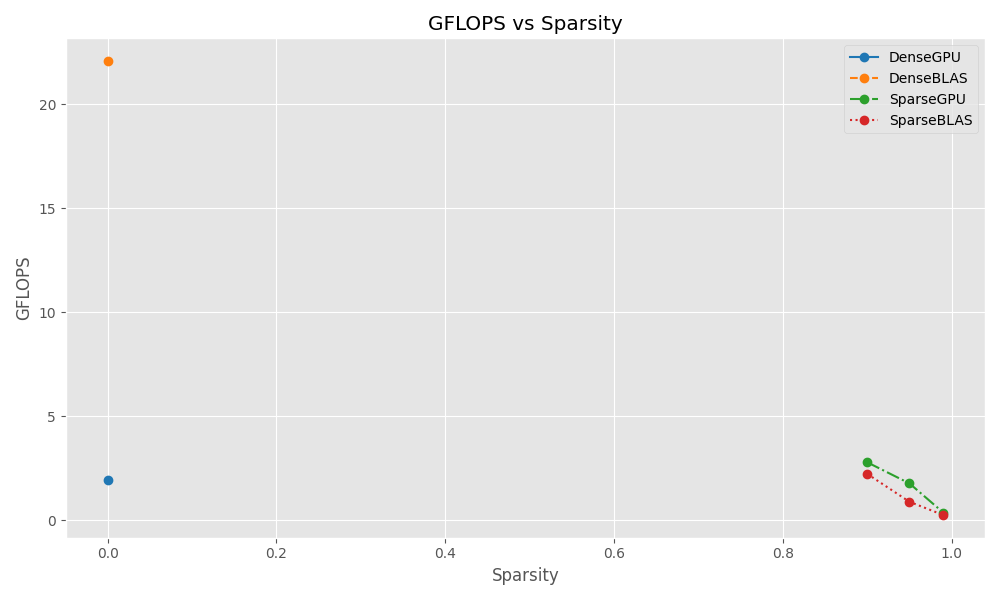
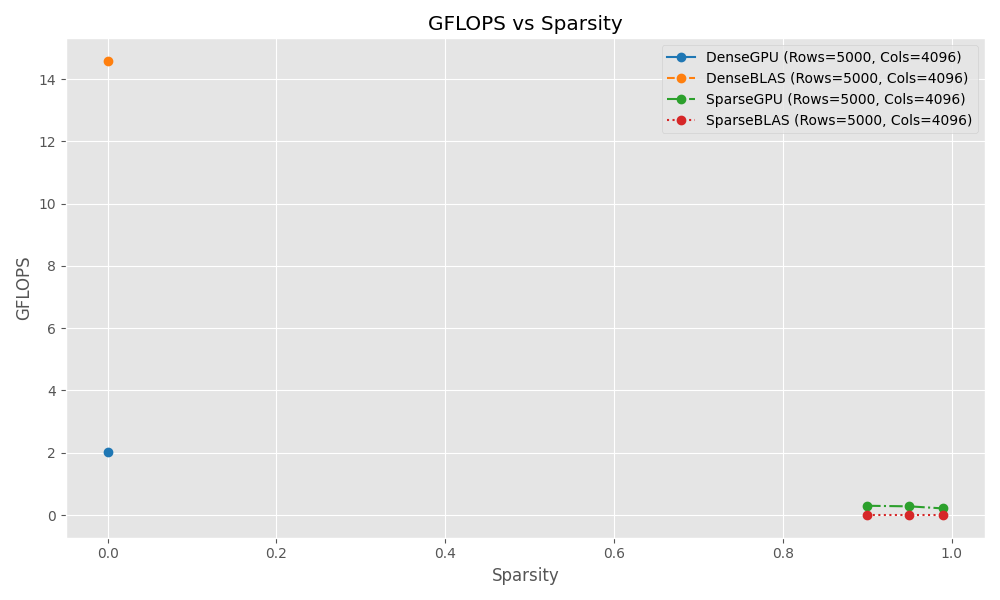
fixed graphs

diff --git a/draw.py b/draw.py
@@ -1,10 +1,11 @@
 import pandas as pd
 import matplotlib.pyplot as plt
+import os
 
 # Load data
 df = pd.read_csv("./benchmark_log.csv")
 
-# Normalize method names for consistency
+# Normalize method names
 df['Type'] = df['Type'].replace({
     'DenseGPU': 'DenseGPU',
     'DenseCPU': 'DenseBLAS',
@@ -12,7 +13,7 @@ df['Type'] = df['Type'].replace({
     'SparseCPU': 'SparseBLAS'
 })
 
-# Set up plot style
+# Plot styles
 plt.style.use("ggplot")
 colors = {
     'DenseGPU': 'tab:blue',
@@ -27,16 +28,51 @@ line_styles = {
     'SparseBLAS': ':'
 }
 
-def plot_metric_vs_param(metric, param, ylabel, title):
+# Output directory
+os.makedirs("images", exist_ok=True)
+
+# Plot function with hardcoded dense sparsity = 0.0, selectable sparse sparsity
+def plot_with_fixed_dense_and_selectable_sparse(metric, param, fixed_values, sparse_sparsity, ylabel, title):
     plt.figure(figsize=(10, 6))
-    for method in df['Type'].unique():
-        sub_df = df[df['Type'] == method]
+
+    # ---- Dense methods ----
+    dense_fixed_values = fixed_values.copy()
+    dense_fixed_values["Sparsity"] = 0.0
+    dense_df = df.copy()
+    for k, v in dense_fixed_values.items():
+        if k != param:
+            dense_df = dense_df[dense_df[k] == v]
+    
+    for method in ["DenseGPU", "DenseBLAS"]:
+        sub_df = dense_df[dense_df["Type"] == method]
         means = sub_df.groupby(param)[metric].mean()
-        plt.plot(means.index, means.values,
-                 label=method,
-                 linestyle=line_styles[method],
-                 color=colors[method],
-                 marker='o')
+        if not means.empty:
+            fixed_info = ', '.join([f"{k}={v}" for k, v in dense_fixed_values.items() if k != param])
+            plt.plot(means.index, means.values,
+                     label=f"{method} ({fixed_info})",
+                     linestyle=line_styles[method],
+                     color=colors[method],
+                     marker='o')
+
+    # ---- Sparse methods ----
+    sparse_fixed_values = fixed_values.copy()
+    sparse_fixed_values["Sparsity"] = sparse_sparsity
+    sparse_df = df.copy()
+    for k, v in sparse_fixed_values.items():
+        if k != param:
+            sparse_df = sparse_df[sparse_df[k] == v]
+    
+    for method in ["SparseGPU", "SparseBLAS"]:
+        sub_df = sparse_df[sparse_df["Type"] == method]
+        means = sub_df.groupby(param)[metric].mean()
+        if not means.empty:
+            fixed_info = ', '.join([f"{k}={v}" for k, v in sparse_fixed_values.items() if k != param])
+            plt.plot(means.index, means.values,
+                     label=f"{method} ({fixed_info})",
+                     linestyle=line_styles[method],
+                     color=colors[method],
+                     marker='o')
+
     plt.xlabel(param)
     plt.ylabel(ylabel)
     plt.title(title)
@@ -44,21 +80,21 @@ def plot_metric_vs_param(metric, param, ylabel, title):
     plt.tight_layout()
     plt.grid(True)
     plt.savefig(f"images/{title}.png")
+    plt.close()
 
-# 1. Latency vs Rows
-plot_metric_vs_param("Avg Inference (50 times) Time (ms)", "Rows", "Time (ms)", "Latency vs Rows")
+# === CONFIGURATION ===
+# Fixed values (except x-axis param and sparsity for sparse)
+fixed_values = {
+    "Rows": 5000,
+    "Cols": 4096
+}
+# You choose the sparsity to use for Sparse methods
+selected_sparse_sparsity = 0.9
 
-# 2. GFLOPS vs Rows
-plot_metric_vs_param("GFLOPS", "Rows", "GFLOPS", "GFLOPS vs Rows")
-
-# 3. Latency vs Cols
-plot_metric_vs_param("Avg Inference (50 times) Time (ms)", "Cols", "Time (ms)", "Latency vs Cols")
-
-# 4. GFLOPS vs Cols
-plot_metric_vs_param("GFLOPS", "Cols", "GFLOPS", "GFLOPS vs Cols")
-
-# 5. Latency vs Sparsity
-plot_metric_vs_param("Avg Inference (50 times) Time (ms)", "Sparsity", "Time (ms)", "Latency vs Sparsity")
-
-# 6. GFLOPS vs Sparsity
-plot_metric_vs_param("GFLOPS", "Sparsity", "GFLOPS", "GFLOPS vs Sparsity")
+# === PLOTS ===
+plot_with_fixed_dense_and_selectable_sparse("Avg Inference (50 times) Time (ms)", "Rows", fixed_values, selected_sparse_sparsity, "Time (ms)", "Latency vs Rows")
+plot_with_fixed_dense_and_selectable_sparse("GFLOPS", "Rows", fixed_values, selected_sparse_sparsity, "GFLOPS", "GFLOPS vs Rows")
+plot_with_fixed_dense_and_selectable_sparse("Avg Inference (50 times) Time (ms)", "Cols", fixed_values, selected_sparse_sparsity, "Time (ms)", "Latency vs Cols")
+plot_with_fixed_dense_and_selectable_sparse("GFLOPS", "Cols", fixed_values, selected_sparse_sparsity, "GFLOPS", "GFLOPS vs Cols")
+plot_with_fixed_dense_and_selectable_sparse("Avg Inference (50 times) Time (ms)", "Sparsity", fixed_values, selected_sparse_sparsity, "Time (ms)", "Latency vs Sparsity")
+plot_with_fixed_dense_and_selectable_sparse("GFLOPS", "Sparsity", fixed_values, selected_sparse_sparsity, "GFLOPS", "GFLOPS vs Sparsity")

diff --git a/src/gpu/inner_product_opencl.cpp b/src/gpu/inner_product_opencl.cpp
@@ -427,7 +427,7 @@ GEMVResult innerProductOpenCL(const SparseVector& v, const SparseMatrix& A) {
     return result;
 }
 
-
+// use top to see
 // OpenBLAS reference implementation (modified for better performance)
 GEMVResult sparseGEMV_OpenBLAS(const SparseVector& v, const SparseMatrix& A) {
     using Clock = std::chrono::high_resolution_clock;

diff --git a/src/main.cpp b/src/main.cpp
@@ -100,7 +100,7 @@ int main() {
     std::vector<float> sparsities = {0.90f, 0.95f, 0.99f};
 
     // std::vector<int> vec_sizes = {4096};
-    // std::vector<int> mat_rows  = {1000};
+    // std::vector<int> mat_rows  = {10000};
     // std::vector<float> sparsities = {0.95f};
 
     for (int vec_size : vec_sizes) {
